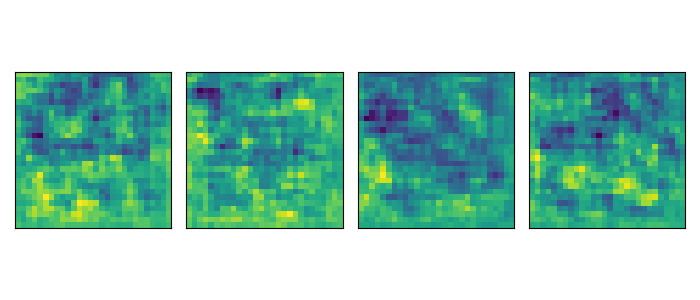
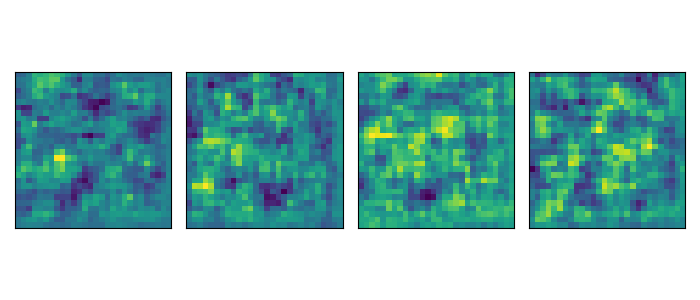
minor changes

diff --git a/examples/example_gan_fashion_mnist.py b/examples/example_gan_fashion_mnist.py
@@ -79,7 +79,7 @@ gan = GAN(generator, discriminator)
 gan.compile(g_opt, d_opt, g_loss, d_loss)
 
 # train GAN model
-hist = gan.fit(ds, epochs=2, callbacks=[ModelMonitor()])
+hist = gan.fit(ds, epochs=1, callbacks=[ModelMonitor()])
 
 plt.suptitle('Loss')
 plt.plot(hist.history['d_loss'], label='d_loss')
